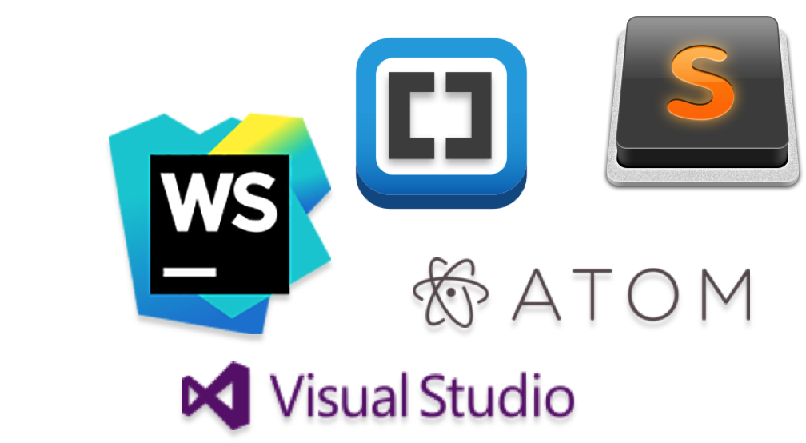
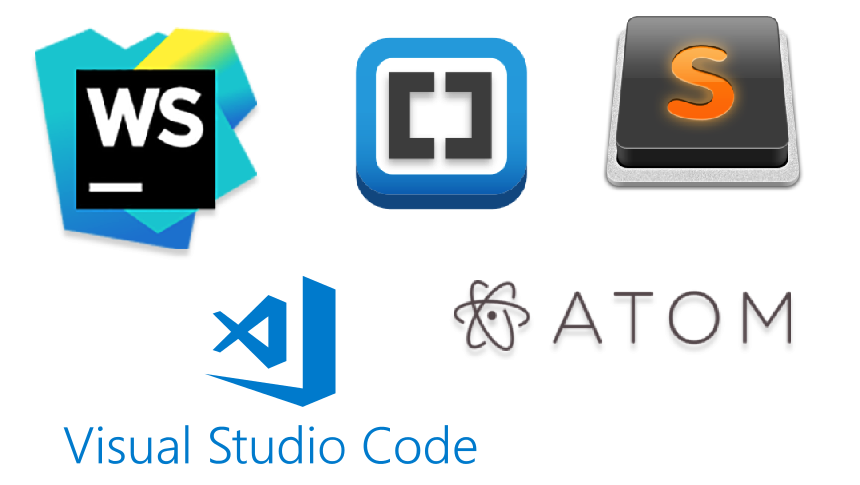
update IDE slides

diff --git a/Dev-Summit-2019/Getting-started-web-dev/index.md b/Dev-Summit-2019/Getting-started-web-dev/index.md
@@ -48,7 +48,7 @@ Heather Gonzago and Noah Sager
 ### **Developer Setup**
 </br>
 <a href="https://www.slant.co/topics/1686/~javascript-ides-or-editors" target="_blank">
-<img src="Images/ides.png" alt="IDEs" width="806" height="443">
+<img src="Images/ides.png" alt="IDEs" width="860" height="485">
 </a>
 
 ----
